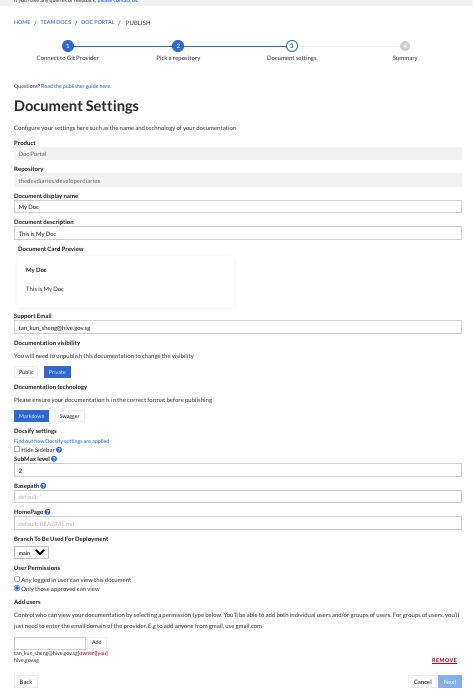
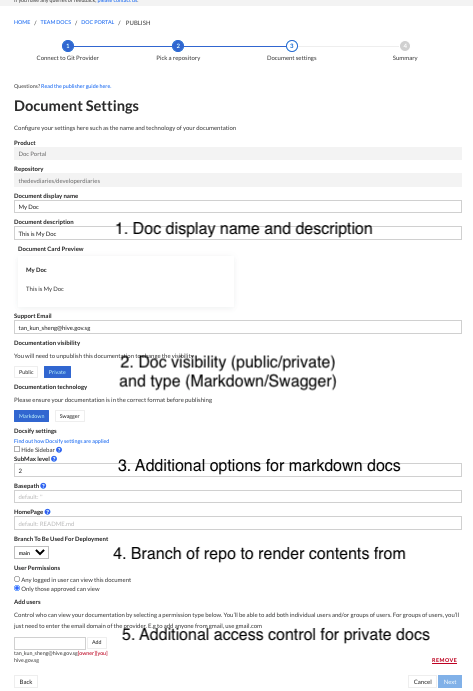
Add gifs for getting started and update quickstart with new publishing flow details

diff --git a/index.html b/index.html
@@ -34,7 +34,7 @@
         el: "#app",
         auto2top: true,
         loadSidebar: true,
-        subMaxLevel: 2, // For automatic 2nd level headings
+        subMaxLevel: 4, // For automatic 2nd level headings
         themeColor: "#0076d6",
         markdown: {
           renderer: {

diff --git a/get-started.md b/get-started.md
@@ -1,5 +1,5 @@
 # Overview
-
+<!-- todo: update this diagram -->
 ![Get Started Overview](assets/get-started-overview.png)
 
 ## Prerequisites
@@ -10,9 +10,14 @@ You will need:
 
 1. A [TechPass](https://www.techpass.gov.sg) account to log in and host your documentation.
 2. A free [github.com](https://github.com) account to host your documentation's git repository.
-3. The following requires you to reach out to the Developer's Portal Team
-   - You have been assigned the role of a publisher. 
-   - A 'Product' has been created for the documentation which you are writing for, and you have been added as a team member in said 'Product'.
+3. To have been assigned the role of a publisher on Documentation Portal.
+4. To have the **Product** for the documentation which you are writing for, already created.
+5. To have been added as a member in said 'Product'
+
+
+?> Points 3 - 5 would require you to reach out to the Developer's Portal Team
+
+?> **Products** are government digital solutions such as TechPass, SHIP Hats, NDI etc. You will be able to choose which **Product** you will be writing your documentation for.
 
 If your documentation is in Markdown, you will use [Docsify](https://docsify.js.org) to write and structure it on your development machine before pushing it to your GitHub repository.
 
@@ -21,25 +26,25 @@ If your documentation is in OpenAPI/Swagger, i.e. you are writing API documentat
 ## Overview of steps
 <div style="text-align:center">
    <img src="assets/new-publishing/publishing-guide.gif"/>
-   
 </div>
 
-1. Create a new GitHub repository to place your documentation
-2. Push your documentation files to that repository
+1. Write and preview your documentation on your machine with tools such as [Docsify](/get-started?id=create-and-preview-markdown) for Markdown, and [ReDoc](/get-started?id=preview-oas) for OAS
+2. Create a GitHub repository and push your documentation to it
 3. Log in to the developer documentation portal with your TechPass account
 4. Go through the guided publishing flow when you access **Publish documentation** in your product's page:
-   1. Authorise developer documentation portal to access your GitHub repository's contents.
-   2. Select the repository containing your documentation and publish it on the developer documentation portal.
 
 ## Quickstart
 
+The two types of documentation that you can publish are:
+1. Markdown 
+2. Open API Specification / Swagger
 
-The following steps show how to publish a markdown-based documentation repo.
+The following examples show you how to get started with the creation of such docs, and also how to serve them on your local machines so that you can have a preview of how they would look like when published.
 
-## Markdown
-### 1. Create your Docsify project
+### 1a. Markdown
+#### Create and Preview Markdown
 
-The easiest way to get started with Docsify is through its [command line tool](https://docsify.js.org/#/quickstart).
+The easiest way to get started with **Docsify** is through its [command line tool](https://docsify.js.org/#/quickstart).
 
 1. You will need to have Node.js and NPM installed on your machine. Use the [official installer](https://nodejs.org/en/) or the [nvm tool](https://github.com/nvm-sh/nvm).
 
@@ -74,23 +79,7 @@ The easiest way to get started with Docsify is through its [command line tool](h
    git commit -m "Initial commit"
    ```
 
-6. [Create a new github.com repository](https://github.com/new) (this can be either public or private) and follow
-   the instructions on GitHub to push your new repository to that project.
-
-   ```bash
-   # Either SSH authentication
-   git remote add origin git@github.com/my-username/my-project.git
-   # Or HTTP
-   git remote add origin https://github.com/my-username/my-project.git
-
-   # Push to the master branch of your GitHub project
-   git push -u origin master
-   ```
-
-   Note that you should have at least a `README.md` file at the **root** of your project, which will serve as the home page for your documentation.
-
-
-## OpenAPI specs
+### 1b. OpenAPI Spec
 
 
 From the [official OpenAPI specification site](https://swagger.io/specification):
@@ -104,7 +93,7 @@ You can defined an OpenAPI or Swagger document in `yaml` or `json` and publish t
 
 **<small>Note: This file must be named `swagger.json`, `swagger.yml` or `swagger.yaml`!</small>**
 
-#### Previewing your OpenAPI documentation
+#### Preview OAS
 You can use the [redoc CLI](https://github.com/Redocly/redoc/tree/master/cli) to preview how your API documentation would look like. You will need to have Node.js and NPM installed on your machine. Use the [official installer](https://nodejs.org/en/) or the [nvm tool](https://github.com/nvm-sh/nvm).
 
 ```bash
@@ -116,16 +105,38 @@ You can then navigate to http://localhost:8080 to preview your rendered API docu
 
 ![openapi documentation with redoc screenshot](assets/redoc-preview.png)
 
-### 2. Log in to Documentation Portal with TechPass and go to your Product space
+### 2. Push to GitHub
+After your Markdown or OAS documentation is prepared, push it to GitHub.
 
-Log in to the developer documentation portal by clicking on `Log in with TechPass` on the nav bar. Navigate to `Team Docs` to see a list of Products that you are a member of (Contact the Developer's Portal Team for creation and addition of members to products).
+[Create a new github.com repository](https://github.com/new) (this can be either public or private) and follow
+the instructions on GitHub to push your new repository to that project.
+
+```bash
+# Either SSH authentication
+git remote add origin git@github.com/my-username/my-project.git
+# Or HTTP
+git remote add origin https://github.com/my-username/my-project.git
+
+# Push to the master branch of your GitHub project
+git push -u origin master
+```
+>For **Markdown Docs**, you should have at least a `README.md` file at the **root** of your project, which will serve as the home page for your documentation.
+
+>For **OAS/Swagger Docs**, you should have at least a `swagger.json`, `swagger.yml` or `swagger.yaml` file at the **root** of your project, which will serve as the home page for your documentation.
+
+### 3. Log in and access your Product space
+
+<div style="text-align:center">
+   <img src="assets/new-publishing/access-product.gif"/>
+</div>
+
+Log in to the developer documentation portal by clicking on `Log in with TechPass` on the navigation bar. Navigate to `Team Docs` to see a list of Products that you are a member of (Contact the Developer's Portal Team for creation of new Products, and addition of members to Products).
 
 Select the Product of which you are intending to publish documentation for, then click on the "Publish documentation" button. 
 
-<!-- You will be directed to your GitHub account and you will have to grant OAuth permissions for the documentation portal to pull the contents of your documentation repository and host it. -->
+### 4. Publish your documentation with the guided Publishing Wizard
 
-### 3. Publish your documentation with the guided Publishing Wizard
-> Make sure you have **pushed** changes made to your documentation files to the master branch on GitHub!
+
 
 The publishing wizard will guide you through the steps required to get your documentation published.
 #### Step 1. Select a Git Provider
@@ -133,85 +144,36 @@ The publishing wizard will guide you through the steps required to get your docu
 ![Select Repo](assets/new-publishing/select-git.png)
 
 In this step, you select a git provider (only GitHub available for now, but more options coming soon!) and authorise your account to Documentation Portal with the necessary permissions to perform publishing.
+
+If this is your first time publishing a document, and you have not authorised your GitHub account to us before, you will be prompted to do so when you click next.
 #### Step 2. Select a Repository
 
-![Select Repo](assets/new-publishing/select-repo.png)
+<div style="text-align:center">
+   <img src="assets/new-publishing/select-repo.png"/>
+</div>
 
 In this step, you select a repository from your GitHub account to link up to your to-be published documentation. Your personal repositories along with the repositories of any organisation/teams of which your GitHub account is an admin of, will be available for selection. You can toggle these options under the 'Account' dropdown selection.
 #### Step 3. Enter Document Details
-![Select Repo](assets/new-publishing/document-settings.png)
 
-In this step, you provide details regarding how you want your documentation to be categorised and displayed. Some example options are, the display name, description, git branch, visibility option (public/private) and more.
+<div style="text-align:center">
+   <img src="assets/new-publishing/document-settings.png"/>
+</div>
+
+In this step, you provide details regarding how you want your documentation to be categorised and displayed. Some example options are, the display name, description, git branch, visibility option (Public/Private) and more.
+1. How you want your Doc to be named and described
+2. Choose whether your Doc can be viewed by anyone (Public), or only for logged-in users who has a TechPass account (Private). Also specify if your Doc is a Markdown or OAS type.
+3. Additional settings if Markdown type is selected. Refer to <a href="/#/docsify?id=manual-configuration" target="_blank">Docsify configuration</a>
+4. Select a branch of your GitHub repository to publish from.
+5. Additional access control settings for Private Documentation. Refer to <a href="/#/collaboration/teams-and-permissions?id=configuring-permissions-for-readers" target="_blank">Configuring permissions for readers</a>
+
 
 #### Step 4. Summary
+<div style="text-align:center">
+   <img src="assets/new-publishing/summary.png"/>
+</div>
+
 This is the final step where you review your repository selection and inputs. Upon verifying that all configurations are in order, click on 'Publish Documentation' to have your documentation published!
 
-<!-- Once your GitHub repository is linked to the documentation portal, you will be able to publish it from the documentation portal.
-
-From the top navigation bar, go to `Browse Docs` > `My Docs`. You should see the your personal or organisational GitHub accounts that developer documentation portal is connected with. Find the GitHub repository containing your documentation and click "Publish". -->
-
-<!-- ![My Docs page screenshot](assets/my_docs_list_screen.png)
-
-In the publish menu:
-
-1. Set "Documentation visibility" to "Public" or "Private"
-2. Set "Documentation Technology" to "Markdown".
-3. Fill in the display name for your documentation page.
-4. Click "Publish this project".
-
-![My Docs publish screenshot](assets/my_docs_publish_screen.png) -->
-
-Once published, your documentation will be hosted at docs.developer.gov.sg. All changes made to your GitHub repository would be automatically
-synced to the documentation portal.
-
-> When published, every push to your documentation repo will be automatically pulled and served by the documentation portal. You can also configure the branch that is published.
-
-<!-- ## Quickstart (OpenAPI specs)
-
-From the [official OpenAPI specification site](https://swagger.io/specification):
-
-> The OpenAPI Specification (OAS) defines a standard, language-agnostic interface to RESTful APIs which allows both humans and computers to discover and understand the capabilities of the service without access to source code, documentation, or through network traffic inspection.
->
-> An OpenAPI document (or set of documents) defines or describes an API. An OpenAPI definition uses and conforms to the OpenAPI Specification.
-
-You can defined an OpenAPI or Swagger document in `yaml` or `json` and publish that on the developer documentation portal. It would be rendered as a human-readable page using the [ReDoc](https://github.com/Redocly/redoc) engine.
-
-### 1. Create a git repo
-
-### 2. Commit your OpenAPI/Swagger spec as `swagger.json` within the repo
-
-**<small>Note: This file must be named `swagger.json`, `swagger.yml` or `swagger.yaml`!</small>**
-
-#### Previewing your OpenAPI documentation
-You can use the [redoc CLI](https://github.com/Redocly/redoc/tree/master/cli) to preview how your API documentation would look like. You will need to have Node.js and NPM installed on your machine. Use the [official installer](https://nodejs.org/en/) or the [nvm tool](https://github.com/nvm-sh/nvm).
-
-```bash
-npm i -g redoc-cli
-redoc-cli serve swagger.yml
-```
-
-You can then navigate to http://localhost:8080 to preview your rendered API documentation:
-
-![openapi documentation with redoc screenshot](assets/redoc-preview.png)
-
-### 3. Push your repo to GitHub -->
-
-### 4. Log in and link your TechPass account to your GitHub account
-
-Log in to the developer documentation portal by clicking on `Log in with TechPass`. Navigate to `Browse Docs` > `My Docs` and click on the "authorize to GitHub" link. You will be directed to your GitHub account and you will have to grant OAuth permissions for the documentation portal to pull the contents of your documentation repository and host it.
-
-### 5. Publish your API documentation
-
-From the top navigation bar, go to `Browse Docs` > `My Docs`. You should see the your personal or organisational GitHub accounts that documentation portal is connected with. Find the GitHub repository containing your documentation and click "Publish".
-
-![My Docs page screenshot](assets/my_docs_list_screen.png)
-
-In the publish menu:
-
-1. Set "Documentation visibility" to "Public" or "Private".
-2. Set "Documentation Technology" to "OpenAPI/Swagger".
-3. Fill in the display name for your documentation page.
-4. Click "Publish this project".
 
 Once published, your documentation will be hosted at docs.developer.gov.sg. All changes made to your GitHub repository would be automatically
 synced to the documentation portal.

diff --git a/docsify.md b/docsify.md
@@ -57,7 +57,7 @@ To understand the items that are `configurable when publishing`, see
 
 ## Manual configuration
 
-![Docsify settings](assets/publish_settings_docsify.png ":size=75%")
+![Docsify settings](assets/new-publishing/markdown-doc-settings.png )
 
 You can specify certain configurations that would be present on the`window.$docsify` object when publishing.
 

diff --git a/collaboration/teams-and-permissions.md b/collaboration/teams-and-permissions.md
@@ -1,4 +1,5 @@
 ## Working in teams
+<!-- todo: add a segment about Product Teams -->
 
 > GitHub private repositories for personal and team accounts are [free of charge](https://github.com/pricing).
 
